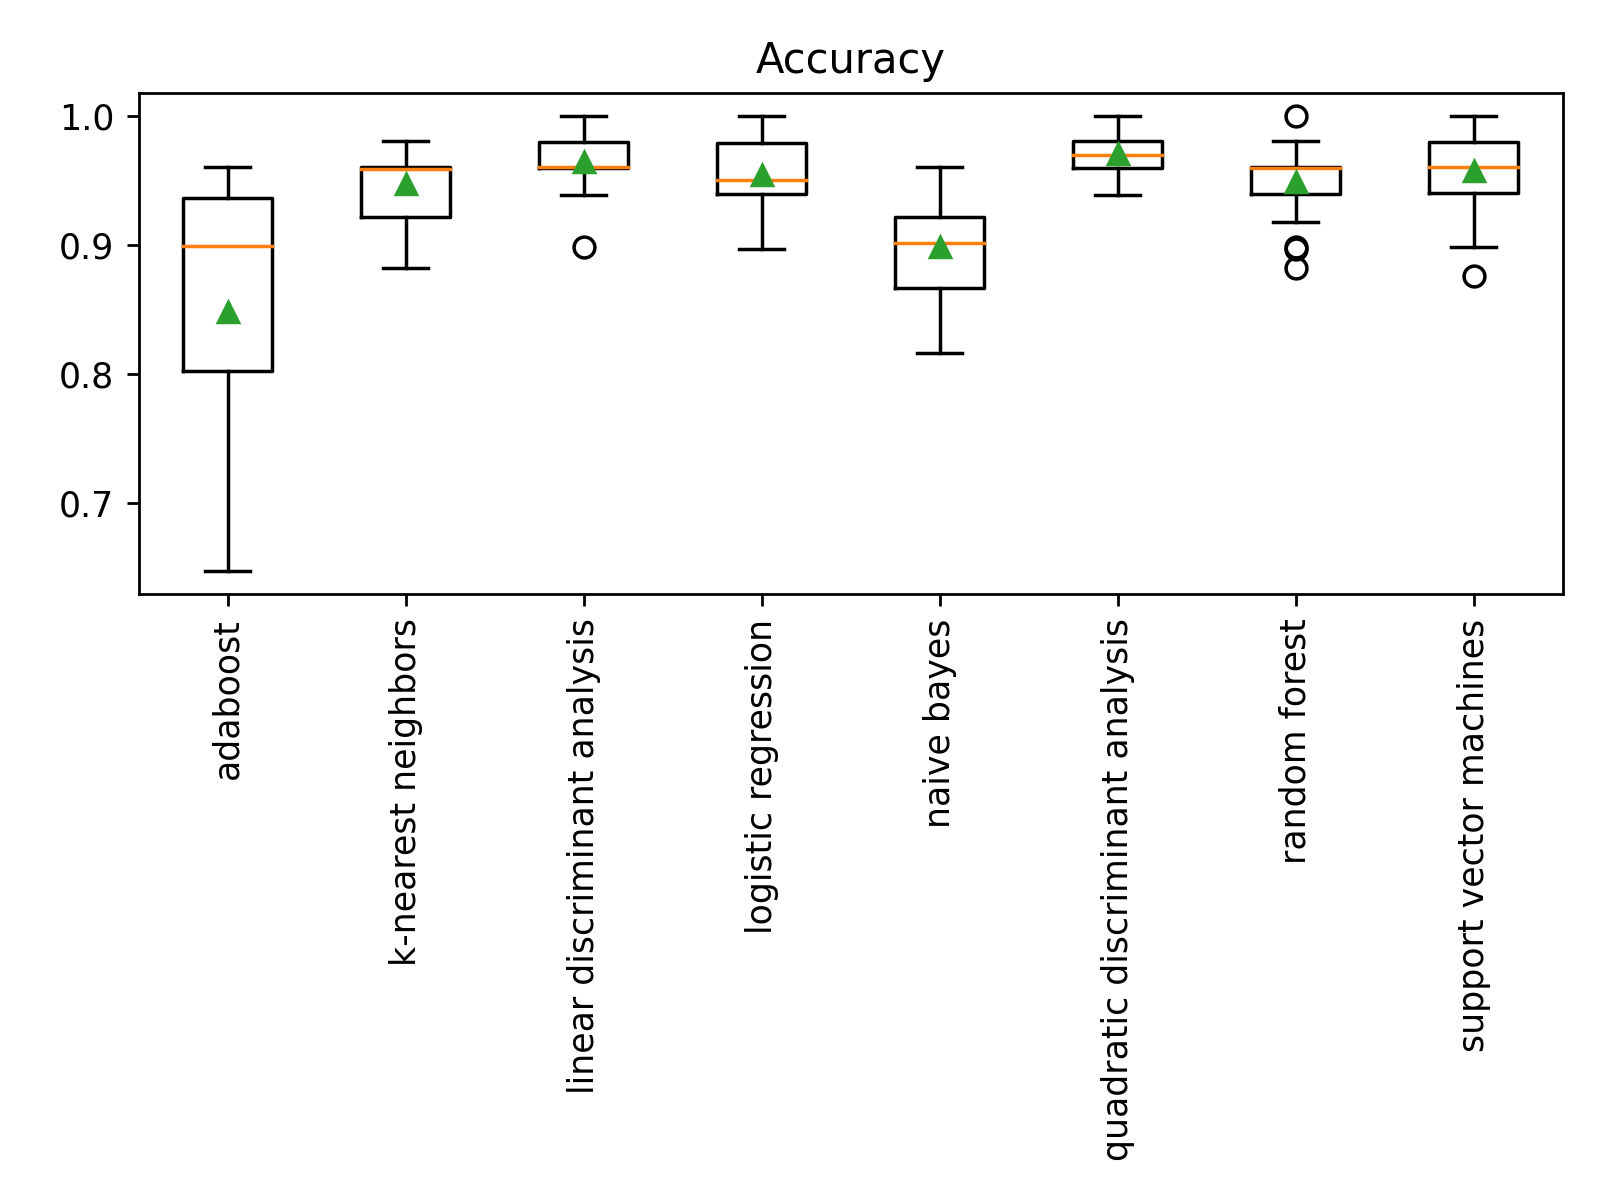
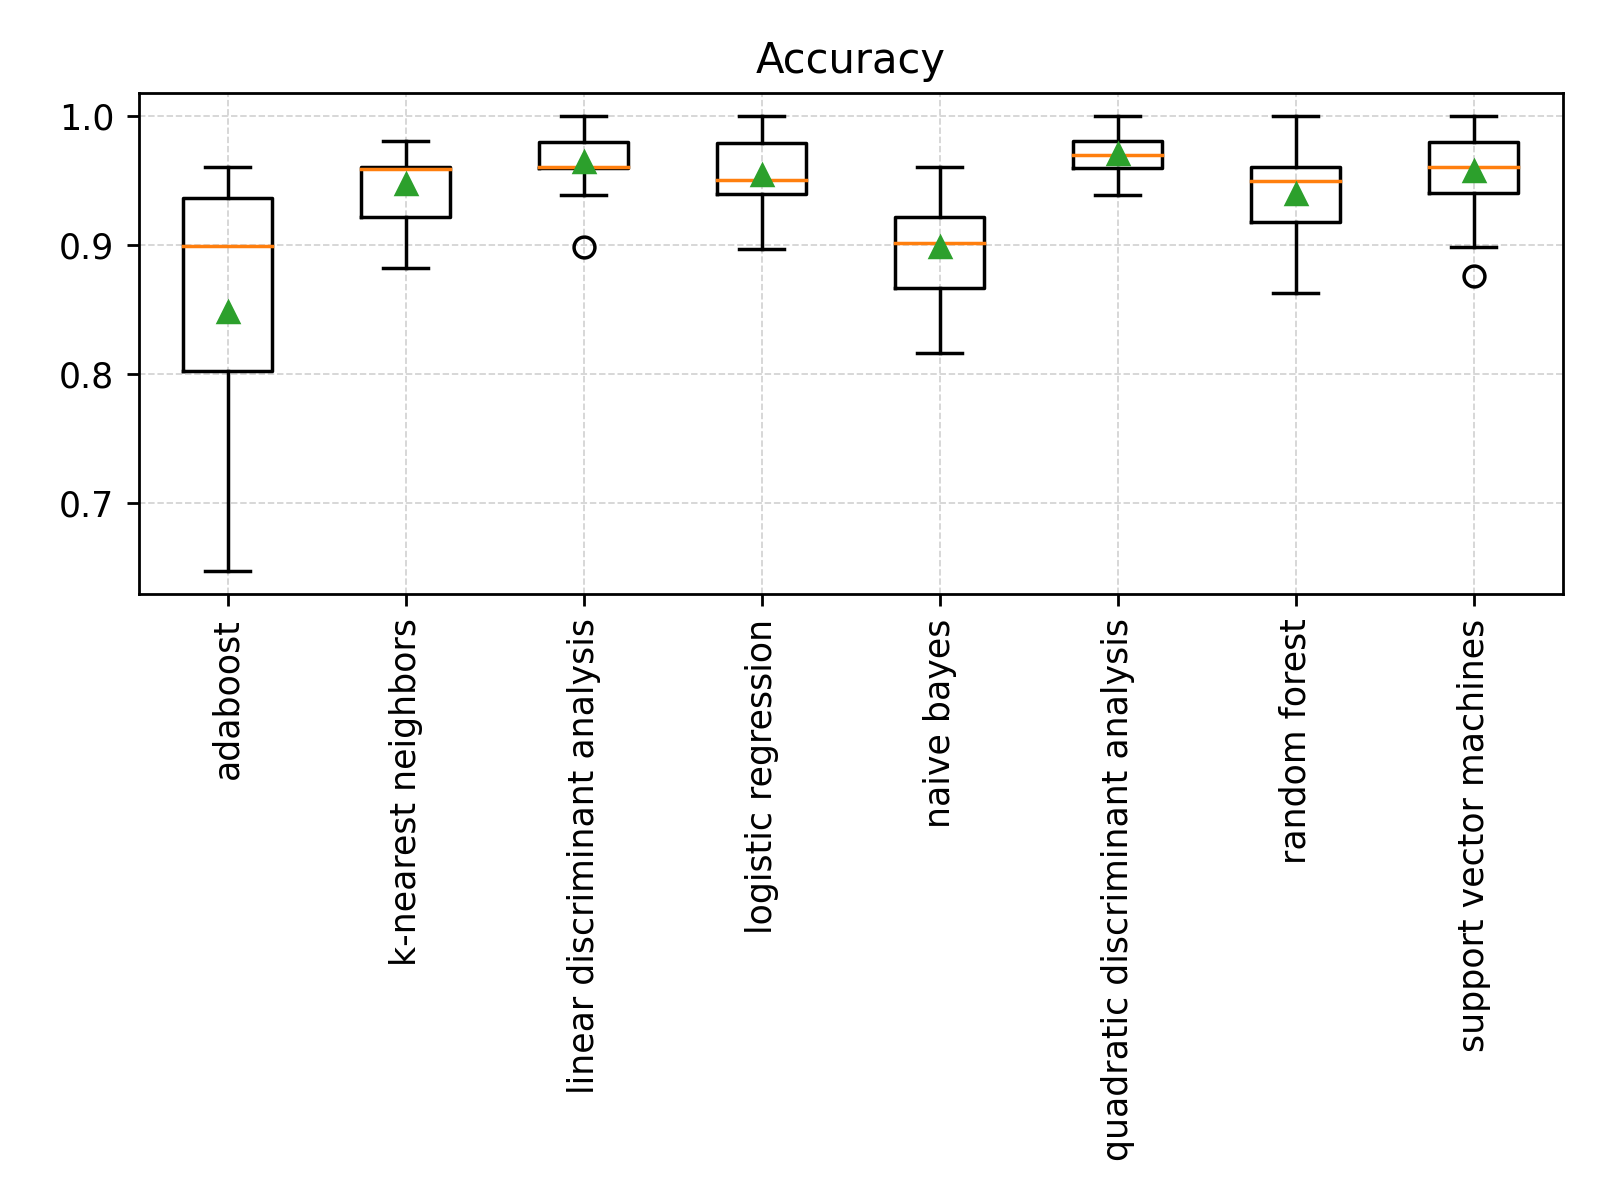
add grid to whisker plot to understand better

Changed region(s): [[0.7812, 0.0925, 0.8438, 0.2467]]

diff --git a/3final_kfoldcv_classification.py b/3final_kfoldcv_classification.py
@@ -109,6 +109,7 @@ for metric, values in sorted(results.items()):
     plt.title(metric.capitalize())
     plt.boxplot([values[model] for model in names], labels=names, showmeans=True)
     plt.xticks(rotation=90)
+    plt.grid(color='lightgray', linestyle='--', linewidth=0.5)
     plt.tight_layout()
     plt.savefig(path_to_plot_dir+metric+'.png', dpi=250)
     plt.clf()
